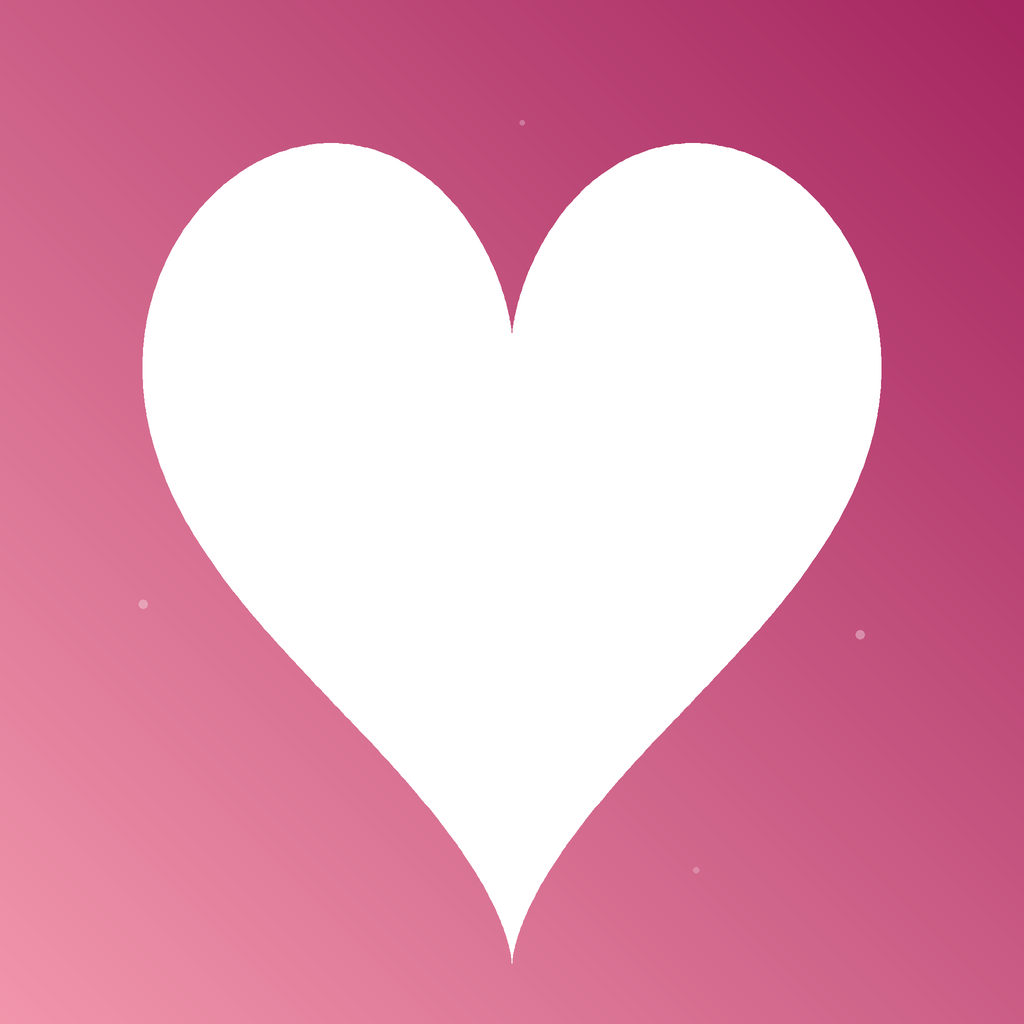
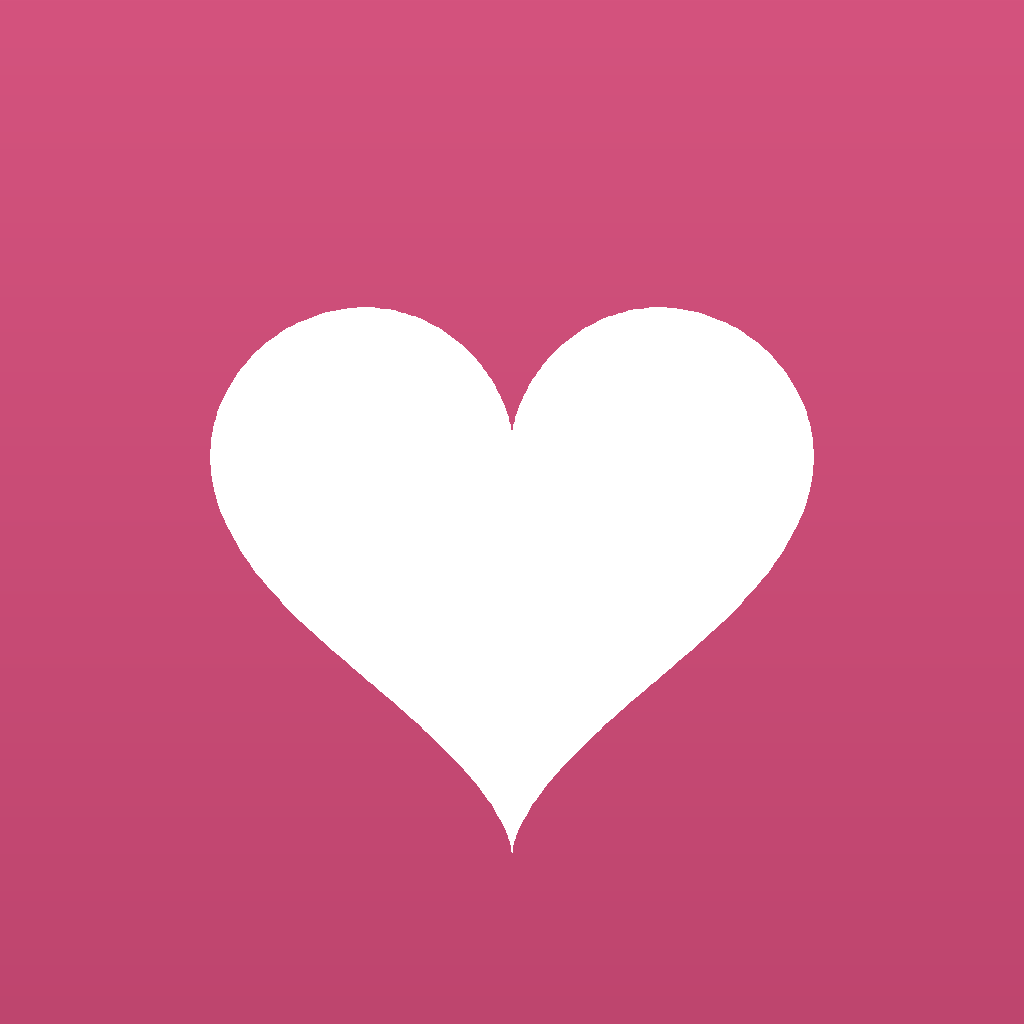
feat(splash): chuyển splash sang react-native-nitro-splash
Nitro auto-show splash native lúc launch và giữ tới khi gọi hide(),
bỏ preventAutoHide/hideAsync thủ công của expo-splash-screen.
Đồng thời định tuyến boot theo coupleId: chưa link couple → Invite.

diff --git a/App.tsx b/App.tsx
@@ -5,7 +5,6 @@ import { useEffect, useState } from 'react';
 import { View } from 'react-native';
 import { SafeAreaProvider } from 'react-native-safe-area-context';
 import { StatusBar } from 'expo-status-bar';
-import * as SplashScreen from 'expo-splash-screen';
 import { useFonts } from 'expo-font';
 import {
   DMSans_400Regular,
@@ -17,13 +16,16 @@ import type { LinkingOptions } from '@react-navigation/native';
 import { useValue } from '@legendapp/state/react';
 import { QueryClientProvider } from '@tanstack/react-query';
 import { appStore$, appActions } from '@/stores';
+import { authStore$ } from '@/stores/auth.store';
 import { themeVars } from '@/tokens';
 import { queryClient } from '@/queries';
 import { DIContainer } from '@/di/DIContainer.ts';
+import { splashScreen } from '@/services/SplashScreenService.ts';
 import { RootNavigator } from './src/navigation/RootNavigator';
 import type { RootStackParamList } from '@/navigation/types.ts';
 
-SplashScreen.preventAutoHideAsync();
+// Nitro auto-show splash khi launch và giữ tới khi gọi hide() (autoHide=false mặc định),
+// nên không cần preventAutoHide thủ công ở đây.
 
 const linking: LinkingOptions<RootStackParamList> = {
   prefixes: ['everly://', 'https://everly.app'],
@@ -42,8 +44,6 @@ const withBootTimeout = (promise: Promise<unknown>): Promise<unknown> =>
 export default function App() {
   const theme = useValue(appStore$.theme);
   const [booted, setBooted] = useState(false);
-  // Dùng SecureStore (session) thay vì authStore$.user (MMKV) để định tuyến —
-  // session.restore() là nguồn đúng cho trạng thái auth khi khởi động.
   const [sessionAuthenticated, setSessionAuthenticated] = useState(false);
   // Load font DM Sans theo design Figma; fontError → vẫn render với System font
   const [fontsLoaded, fontError] = useFonts({
@@ -55,6 +55,8 @@ export default function App() {
   useEffect(() => {
     async function bootstrap() {
       try {
+        // DEV ONLY: uncomment dòng dưới để clear session (thay cho uninstall trên iOS)
+        // await DIContainer.getInstance().session.clear();
         const tokens = await withBootTimeout(DIContainer.getInstance().session.restore());
         setSessionAuthenticated(tokens !== null);
         appActions.initialize();
@@ -62,7 +64,6 @@ export default function App() {
         // tiếp tục với unauthenticated state
       } finally {
         setBooted(true);
-        await SplashScreen.hideAsync();
       }
     }
     bootstrap();
@@ -75,7 +76,11 @@ export default function App() {
     });
   }, []);
 
-  if (!booted || (!fontsLoaded && !fontError)) return null;
+  // Khi booted + fonts sẵn sàng → ẩn Nitro splash (native) rồi render app
+  const appReady = booted && (fontsLoaded || !!fontError);
+  useEffect(() => {
+    if (appReady) splashScreen.hide(300);
+  }, [appReady]);
 
   return (
     <SafeAreaProvider>
@@ -83,10 +88,21 @@ export default function App() {
         {/* themeVars inject CSS variables cho toàn bộ cây component */}
         <View style={[{ flex: 1 }, themeVars[theme]]}>
           <StatusBar style={theme === 'midnight-gold' ? 'light' : 'dark'} />
-          <NavigationContainer linking={linking}>
-            {/* Có session → vào thẳng App (nav bar); chưa có → flow auth */}
-            <RootNavigator initialRouteName={sessionAuthenticated ? 'App' : 'Welcome'} />
-          </NavigationContainer>
+          {appReady && (
+            <NavigationContainer linking={linking}>
+              {/* Routing khi boot:
+                  - Không có session → Welcome (đăng nhập/đăng ký)
+                  - Có session + chưa link couple → Invite (tiếp tục onboarding)
+                  - Có session + đã có couple → App (main tabs) */}
+              <RootNavigator initialRouteName={
+                !sessionAuthenticated
+                  ? 'Welcome'
+                  : authStore$.user.peek()?.coupleId
+                    ? 'App'
+                    : 'Invite'
+              } />
+            </NavigationContainer>
+          )}
         </View>
       </QueryClientProvider>
     </SafeAreaProvider>

diff --git a/src/services/SplashScreenService.ts b/src/services/SplashScreenService.ts
@@ -1,0 +1,34 @@
+import { NitroSplash } from '@ducanh261101a/react-native-nitro-splash';
+
+/**
+ * Interface splash screen riêng của app — chỉ phơi ra những gì app cần,
+ * không sao chép nguyên API của thư viện bên dưới.
+ */
+export interface ISplashScreen {
+  /** Ẩn splash, có thể fade-out trong `fadeDurationMs` mili-giây. */
+  hide(fadeDurationMs?: number): void;
+  /** Giữ splash lại khi native init với autoHide = true. */
+  preventAutoHide(): void;
+  /** Splash đang hiển thị hay không. */
+  readonly isVisible: boolean;
+}
+
+/**
+ * Adapter bọc `@ducanh261101a/react-native-nitro-splash`.
+ * Đây là FILE DUY NHẤT được import thư viện này — nơi khác chỉ phụ thuộc ISplashScreen.
+ */
+class NitroSplashScreenAdapter implements ISplashScreen {
+  hide(fadeDurationMs = 0): void {
+    NitroSplash.hide({ fadeDurationMs });
+  }
+
+  preventAutoHide(): void {
+    NitroSplash.preventAutoHide();
+  }
+
+  get isVisible(): boolean {
+    return NitroSplash.isVisible;
+  }
+}
+
+export const splashScreen: ISplashScreen = new NitroSplashScreenAdapter();
